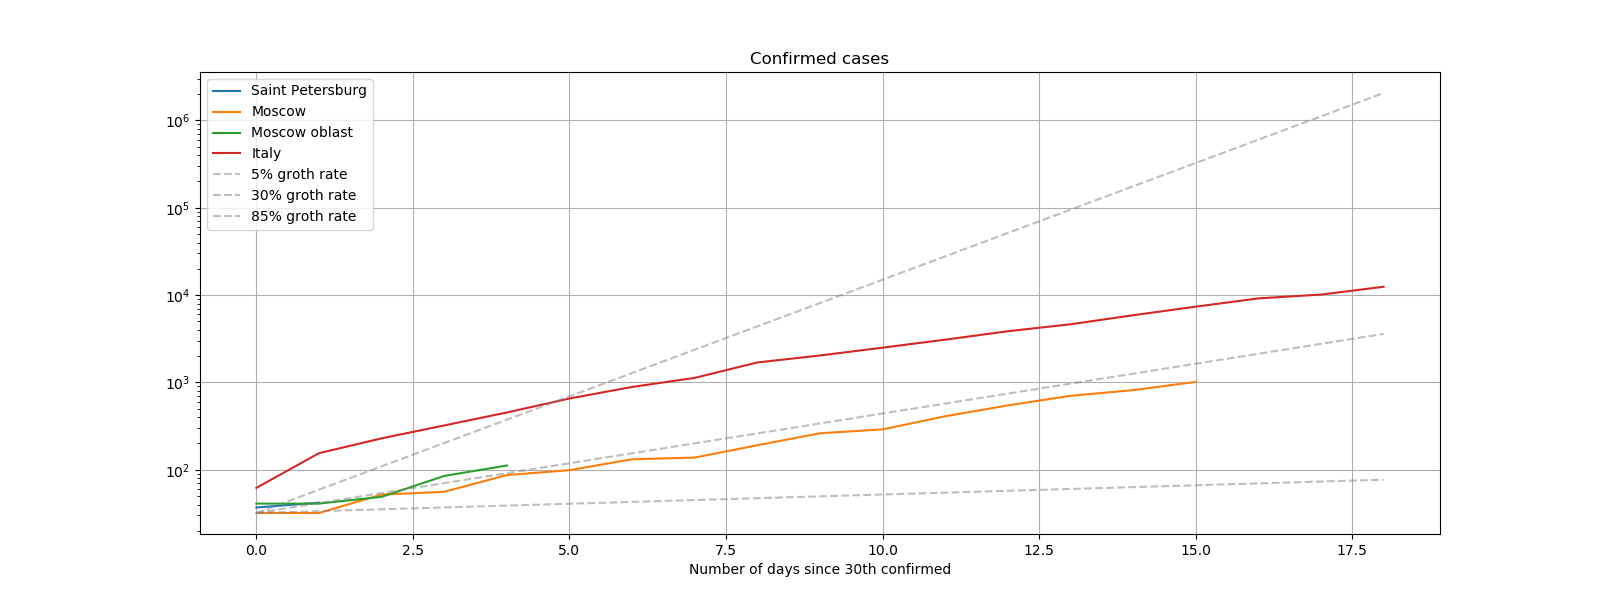
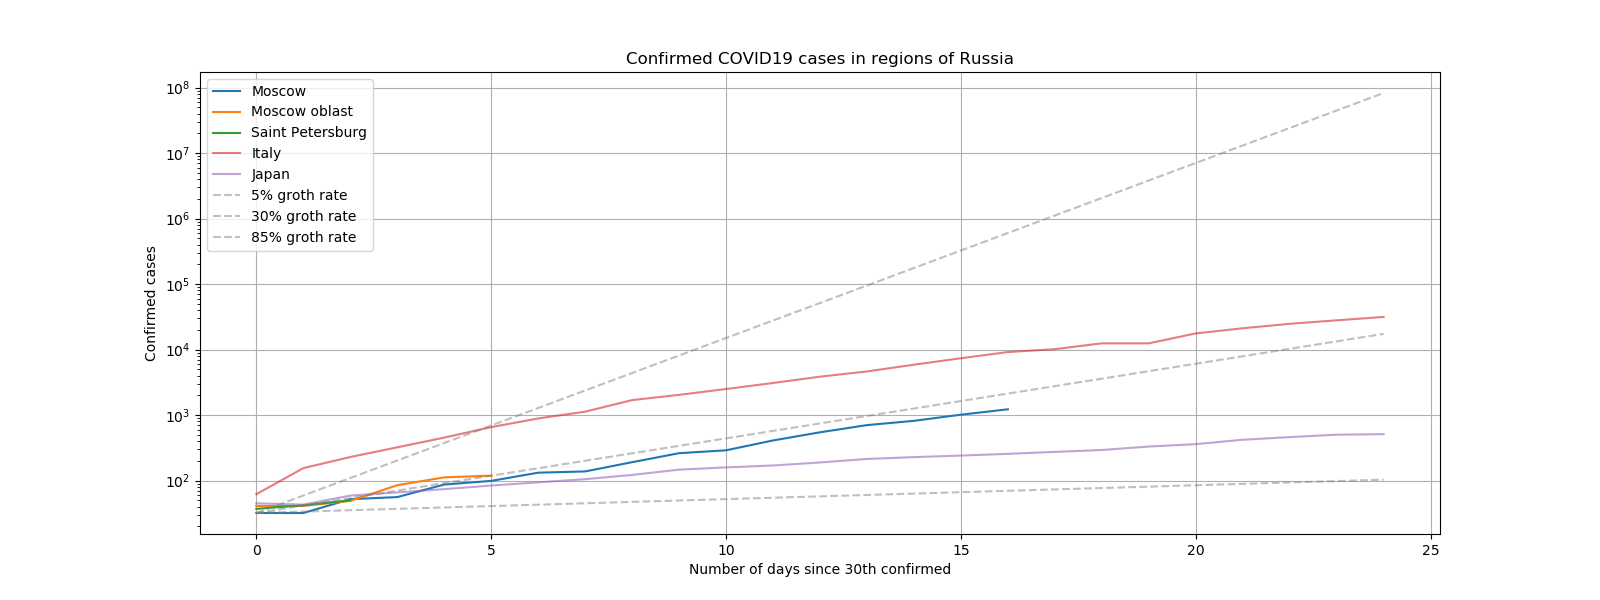
Update plots, add russian version

diff --git a/python3/src/covid19ru/plot.py b/python3/src/covid19ru/plot.py
@@ -1,24 +1,29 @@
 import matplotlib.pyplot as plt
 from math import pow
+from typing import Dict, Optional, Tuple
 from .access import load, timelines, TimeLine
+from .fetch import REGIONS_EN_RU
 from itertools import chain
 from datetime import datetime
+from collections import OrderedDict
 
-def plot(confirmed_min_threshold=30, show:bool=False)->None:
+
+def plot(confirmed_min_threshold=30, show:bool=False,
+         save_name:Optional[str]=None, labels_in_russian:bool=False)->None:
   plt.figure(figsize=(16, 6))
   plt.yscale('log')
 
   max_tick=0
   min_confirmed=99999999
-  out:Dict[Tuple[str,str],TimeLine]={}
-  out.update(timelines(country_region='Russia'))
-  out.update(timelines(country_region='Italy'))
-  out.update(timelines(country_region='Japan'))
-  ndays_in_russia_after_threshold=(out['Moscow','Russia'].dates[-1]-out['Moscow','Russia'].dates[0]).days-5
+  out:Dict[Tuple[str,str],TimeLine]=OrderedDict()
+  out.update({k:v for k,v in sorted(timelines(country_region='Russia', default_loc='').items(), key=lambda i:i[0]) })
+  out.update(timelines(country_region='Italy', default_loc=''))
+  out.update(timelines(country_region='Japan', default_loc=''))
+  ndays_in_russia_after_threshold=(out['Moscow','Russia'].dates[-1]-out['Moscow','Russia'].dates[0]).days
 
   for (ps,cr),tl in out.items():
-    print(ps,cr)
-    if ps is None and cr=='Russia':
+    # print(ps,cr)
+    if len(ps)==0 and cr=='Russia':
       continue # Skip whole Russia which is similar to Moscow
     if tl.confirmed[-1]<10:
       continue
@@ -38,21 +43,56 @@ def plot(confirmed_min_threshold=30, show:bool=False)->None:
     max_tick=max(max_tick,tick)
     min_confirmed=min(min_confirmed,confirmed[0])
 
-    plt.plot(ticks, confirmed, label=f'{ps or cr}')
+    if labels_in_russian:
+      label=REGIONS_EN_RU.get(ps)
+      if label is None:
+        label={'Russia':'Россия',
+               'Italy':'Италия',
+               'Japan':'Япония'}.get(cr,cr)
+    else:
+      label=ps or cr
 
+    alpha=0.6 if cr in ['Italy','Japan'] else 1.0
+    color=None
+          # {'Italy':'darkgrey',
+          #  'Japan':'grey'}.get(cr,
+          #      {'Moscow':'orange'}.get(ps))
+    plt.plot(ticks, confirmed, label=label, alpha=alpha, color=color)
+
+  def _growth_rate_label(x):
+    if labels_in_russian:
+      return f'Прирост {x}%'
+    else:
+      return f'{x}% groth rate'
 
   plt.plot(range(max_tick),[min_confirmed*pow(1.05,x) for x in range(max_tick)],
-           color='grey', linestyle='--', label='5% groth rate', alpha=0.5)
+           color='grey', linestyle='--', label=_growth_rate_label(5), alpha=0.5)
   plt.plot(range(max_tick),[min_confirmed*pow(1.3,x) for x in range(max_tick)],
-           color='grey', linestyle='--', label='30% groth rate', alpha=0.5)
+           color='grey', linestyle='--', label=_growth_rate_label(30), alpha=0.5)
   plt.plot(range(max_tick),[min_confirmed*pow(1.85,x) for x in range(max_tick)],
-           color='grey', linestyle='--', label='85% groth rate', alpha=0.5)
-  plt.xlabel(f"Number of days since {confirmed_min_threshold}th confirmed")
-  plt.title("Confirmed cases")
+           color='grey', linestyle='--', label=_growth_rate_label(85), alpha=0.5)
+
+  if labels_in_russian:
+    plt.title("Число подтвержденных случаев COVID19 в регионах России")
+    plt.xlabel(f"Количество дней с момента {confirmed_min_threshold}-го подтвержденного случая")
+    plt.ylabel("Подтвержденных случаев")
+  else:
+    plt.title("Confirmed COVID19 cases in regions of Russia")
+    plt.xlabel(f"Number of days since {confirmed_min_threshold}th confirmed")
+    plt.ylabel("Confirmed cases")
+
+
   plt.grid(True)
   plt.legend(loc='upper left')
-  plt.savefig('ruscovid.png')
-  print('Saved to ruscovid.png')
+
+  # handles, labels = plt.gca().get_legend_handles_labels()
+  # # sort both labels and handles by labels
+  # labels, handles = zip(*sorted(zip(labels, handles), key=lambda t: t[0]))
+  # plt.gca().legend(handles, labels)
+
+  if save_name is not None:
+    plt.savefig(save_name)
+    print(f'Saved to {save_name}')
   if show:
     plt.show()
 

diff --git a/python3/src/covid19ru/fetch.py b/python3/src/covid19ru/fetch.py
@@ -82,7 +82,7 @@ def fetch_file(filepath:str, dump_folder:str=COVID19RU_PENDING)->PendingData:
 
 
 
-CITIES=[('Moscow','Москва'),
+REGIONS=[('Moscow','Москва'),
         ('Saint Petersburg','Санкт-Петербург'),
         ('Moscow oblast','Московская область'),
         ('Samara oblast','Самарская область'),
@@ -154,6 +154,9 @@ CITIES=[('Moscow','Москва'),
         ("Republic of Mariy El","Республика Марий Эл"),
         ("Republic of Chuvashia","Республика Чувашия"),
         ]
+
+REGIONS_RU_EN={r_ru:r_en for r_en,r_ru in REGIONS}
+REGIONS_EN_RU={r_en:r_ru for r_en,r_ru in REGIONS}
 
 Lat=float
 Lon=float
@@ -240,10 +243,10 @@ def format_csse2(data:PendingData, dump_folder:Optional[str]=COVID19RU_PENDING, 
   res = []
   misses = []
   for c_ru,dat in data.val.items():
-    if (not assert_unknown) and (not c_ru in {ru:en for en,ru in CITIES}):
+    if (not assert_unknown) and (not c_ru in {ru:en for en,ru in REGIONS}):
       misses.append(c_ru)
       continue
-    c_en={ru:en for en,ru in CITIES}[c_ru]
+    c_en={ru:en for en,ru in REGIONS}[c_ru]
 
     update_time = data.utcnow.strftime("%Y-%m-%d %H:%M:%S")
     loc_lat,loc_lon = LOCATION.get(c_en, yandex_unpack_coordinates(dat,LOCATION_DEF))

diff --git a/python3/src/covid19ru/access.py b/python3/src/covid19ru/access.py
@@ -62,7 +62,9 @@ TimeLine=NamedTuple('TimeLine',[('dates',List[datetime]),
                                 ('deaths',List[int]),
                                 ('recovered',List[int])])
 
-def timelines(province_state:Optional[str]=None,country_region:Optional[str]=None)->Dict[Tuple[str,str],TimeLine]:
+def timelines(province_state:Optional[str]=None,
+              country_region:Optional[str]=None,
+              default_loc:Optional[str]=None)->Dict[Tuple[str,str],TimeLine]:
   assert province_state is not None or country_region is not None
   dates=defaultdict(list)
   confirmed=defaultdict(list)
@@ -79,8 +81,8 @@ def timelines(province_state:Optional[str]=None,country_region:Optional[str]=Non
     def _fixnan(df, default=None):
       return df.where(pd.notnull(df), default)
     for i in range(len(df.index)):
-      ps=_fixnan(df['Province_State']).iloc[i]
-      cr=_fixnan(df['Country_Region']).iloc[i]
+      ps=_fixnan(df['Province_State'],default_loc).iloc[i]
+      cr=_fixnan(df['Country_Region'],default_loc).iloc[i]
       dates[(ps,cr)].append(d)
       confirmed[(ps,cr)].append(_fixnan(df['Confirmed'],0).astype('int32').iloc[i])
       deaths[(ps,cr)].append(_fixnan(df['Deaths'],0).astype('int32').iloc[i])

diff --git a/python3/plot.py b/python3/plot.py
@@ -2,5 +2,6 @@
 
 from covid19ru.plot import plot
 
-plot(show=True)
+plot(show=False, save_name='ruscovid.png', labels_in_russian=False)
+plot(show=True, save_name='ruscovid_ru.png', labels_in_russian=True)
 
